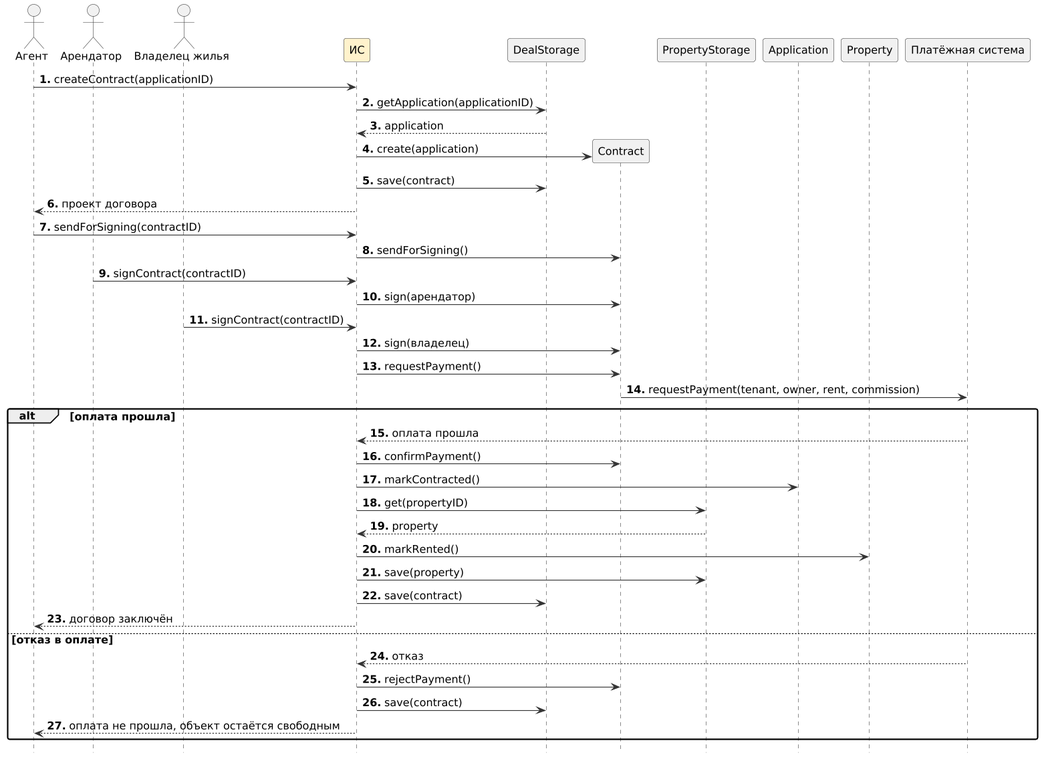
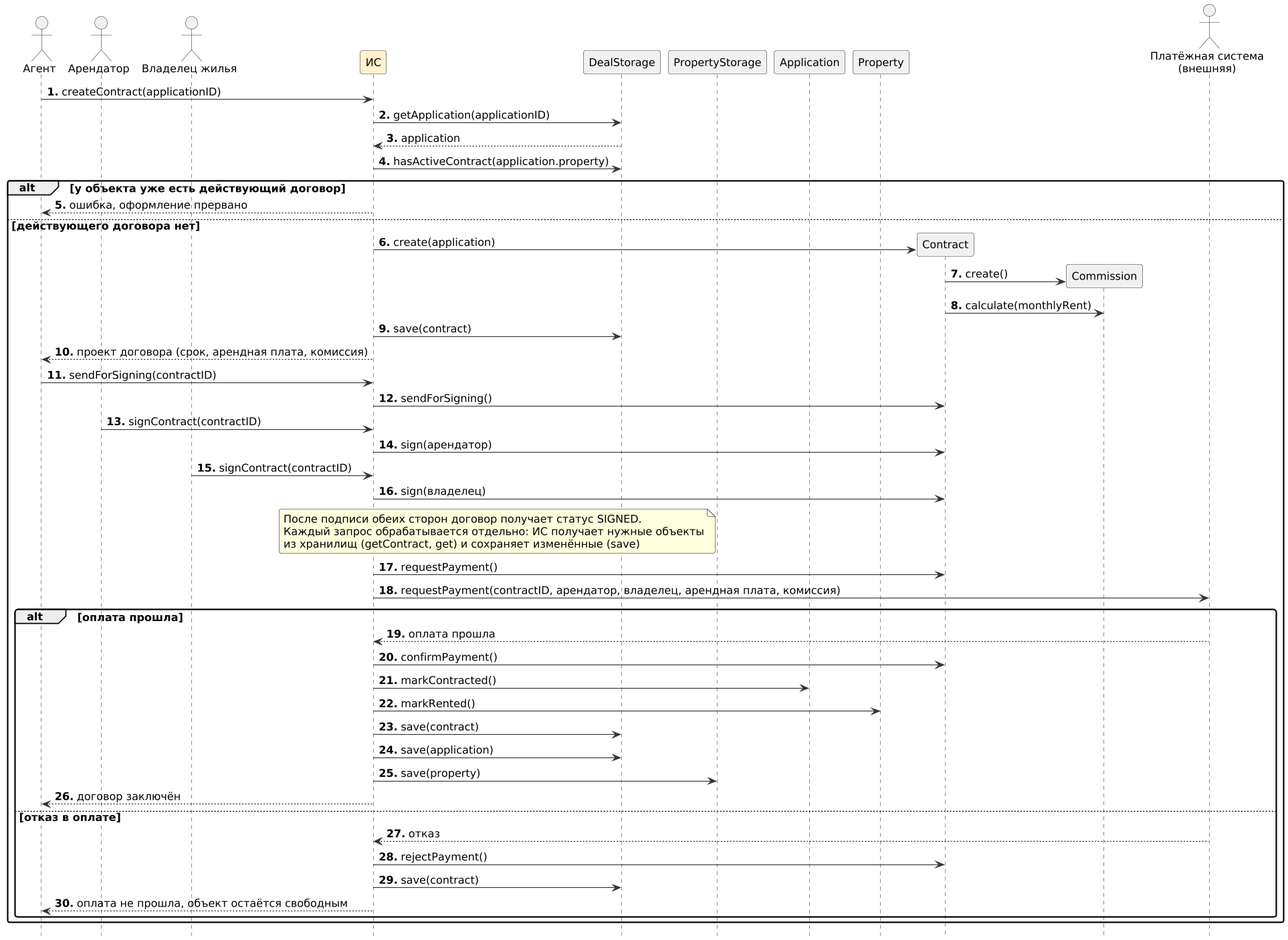
подправил диаграмму последовательности в прецеденте 3

diff --git a/Прецеденты/ПР3.ДоговорОплата.Альберт/ОсновнойСценарий.md b/Прецеденты/ПР3.ДоговорОплата.Альберт/ОсновнойСценарий.md
@@ -1,112 +1,138 @@
-Рамки. Информационная система жилищного агентства «JilliBilli». 
+Рамки. Информационная система жилищного агентства «JilliBilli».
 
-Уровень. Задача, определенная пользователем. 
+Уровень. Задача, определенная пользователем.
 
-Основной исполнитель. Агент. 
+Основной исполнитель. Агент.
 
-Заинтересованные лица и их требования. 
--	Агент. Хочет быстро и без ошибок оформить договор аренды, не допустив двойной сдачи объекта и неверного расчета комиссии.
--	Арендатор. Хочет понятные условия договора, возможность удобно оплатить аренду и комиссию и получить подтверждение оплаты.
--	Владелец жилья. Хочет сдать жилье на согласованных условиях и получить арендную плату полностью, без вычета комиссии.
--	Агентство. Хочет аккуратно зафиксировать сделку, корректно рассчитать и получить комиссию, вести учет договоров.
--	Платежная система. Хочет получать запросы на оплату в корректном формате и отвечать на эти запросы. Платеж, перевод владельцу и возврат выполняются в ней.
--	Налоговые органы. Хотят, чтобы доходы агентства от комиссии были учтены.
+Заинтересованные лица и их требования.
 
-Предусловия. Агент идентифицирован и аутентифицирован. Заявка арендатора одобрена владельцем жилья. У объекта нет действующего договора аренды. 
-	Результаты (Постусловия). 
-	Договор сформирован, подписан обеими сторонами и сохранен. 
-	Комиссия агентства корректно рассчитана и оплачена арендатором. 
-	Оплата принята платежной системой, договор получил статус оплаты «оплачен». 
-	Объект получил статус «Сдан», заявка – статус «Оформлена». 
-	Владелец получил арендную плату полностью через платежную систему. 
+- Агент. Хочет быстро и без ошибок оформить договор аренды, не допустив двойной сдачи объекта и неверного расчета комиссии.
+- Арендатор. Хочет понятные условия договора, возможность удобно оплатить аренду и комиссию и получить подтверждение оплаты.
+- Владелец жилья. Хочет сдать жилье на согласованных условиях и получить арендную плату полностью, без вычета комиссии.
+- Агентство. Хочет аккуратно зафиксировать сделку, корректно рассчитать и получить комиссию, вести учет договоров.
+- Платежная система. Хочет получать запросы на оплату в корректном формате и отвечать на эти запросы. Платеж, перевод владельцу и возврат выполняются в ней.
+- Налоговые органы. Хотят, чтобы доходы агентства от комиссии были учтены.
+
+Предусловия. Агент идентифицирован и аутентифицирован. Арендатор и владелец жилья согласовали условия аренды, заявка арендатора одобрена владельцем (статус «Одобрена»). Объект имеет статус «Доступен», у объекта нет действующего договора аренды. Результаты (Постусловия). Договор сформирован, подписан обеими сторонами и сохранен. Комиссия агентства корректно рассчитана и оплачена арендатором вместе с первым платежом. Оплата принята платежной системой, договор получил статус оплаты «оплачен». Объект получил статус «Сдан», заявка – статус «Оформлена». Владелец получил арендную плату полностью через платежную систему.
 
 Основной успешный сценарий:
-1.	Арендатор и владелец жилья согласовали условия аренды, заявка арендатора одобрена владельцем.
-2.	Агент открывает одобренную заявку и запускает оформление договора.
-3.	Система формирует проект договора на основе условий объекта и заявки, рассчитывает комиссию агентства на основе набора бизнес-правил и выдает агенту проект договора, срок аренды, размер ежемесячной арендной платы и комиссии.
-4.	Агент проверяет проект договора и отправляет его на подпись арендатору и владельцу.
-5.	Арендатор и владелец подписывают договор.
-6.	Система фиксирует подписание договора и отправляет в платежную систему запрос на оплату: арендная плата и комиссия оплачиваются арендатором.
-7.	Платежная система проводит оплату, арендатор подтверждает платеж, платежная система переводит арендную плату владельцу, а комиссию агентству и сообщает системе об успешной оплате.
-8.	Система фиксирует оплату, переводит объект в статус «Сдан», а заявку – в статус «Оформлена».
-9.	Агент получает сообщение, что договор заключен.
 
-Расширения (или альтернативные потоки) 
+1. Агент открывает одобренную заявку и запускает оформление договора.
+2. Система проверяет, что у объекта нет действующего договора, формирует проект договора на основе условий объекта и заявки, рассчитывает комиссию агентства на основе набора бизнес-правил и выдает агенту проект договора, срок аренды, размер ежемесячной арендной платы и комиссии.
+3. Агент проверяет проект договора и отправляет его на подпись арендатору и владельцу.
+4. Арендатор и владелец подписывают договор.
+5. Система фиксирует подписание договора и отправляет в платежную систему запрос на оплату первого платежа: арендная плата за первый месяц и комиссия оплачиваются арендатором.
+6. Платежная система проводит оплату (арендатор подтверждает платеж на ее стороне), переводит арендную плату владельцу, а комиссию агентству и сообщает системе об успешной оплате.
+7. Система фиксирует оплату (статус оплаты договора «оплачен»), переводит объект в статус «Сдан», а заявку – в статус «Оформлена».
+8. Агент получает сообщение, что договор заключен.
+
+Расширения (или альтернативные потоки)
 
 *а. При каждом выходе системы из строя.
 
-    Для корректной обработки договора и платежа нужно обеспечить восстановление всех транзакций и событий с любого шага сценария. 
-    1.	Агент перезапускает систему, регистрируется и предлагает восстановить предыдущее состояние.
-    2.	Система восстанавливает предыдущее состояние.
-        2а. Система определяет аномалию, повлекшую сбой.
-            1.	Система уведомляет об ошибке агента, регистрирует ошибку и переходит в начальное состояние.
-            2.	Агент начинает оформление договора заново.
+```
+Для корректной обработки договора и платежа нужно обеспечить восстановление всех транзакций и событий с любого шага сценария. 
+1.	Агент перезапускает систему, регистрируется и предлагает восстановить предыдущее состояние.
+2.	Система восстанавливает предыдущее состояние.
+    2а. Система определяет аномалию, повлекшую сбой.
+        1.	Система уведомляет об ошибке агента, регистрирует ошибку и переходит в начальное состояние.
+        2.	Агент начинает оформление договора заново.
+```
 
 *б. Агент отменяет оформление договора на любом шаге до оплаты.
 
-    1.	Система отменяет черновик договора, заявка остается в статусе «Одобрена».
+```
+1.	Система отменяет черновик договора (договор аннулируется), заявка остается в статусе «Одобрена».
+```
 
 2а. У объекта уже есть действующий договор аренды.
 
-    1.	Система сообщает об ошибке и прерывает оформление.
+```
+1.	Система сообщает об ошибке и прерывает оформление.
+```
 
 2б. Объект снят владельцем с предложения.
 
-    1.	Система сообщает об ошибке и закрывает заявку.
+```
+1.	Система сообщает об ошибке и закрывает заявку.
+```
 
-3а. В данных объекта или заявки не хватает сведений, необходимых для договора.
+2в. В данных объекта или заявки не хватает сведений, необходимых для договора.
 
-    1.	Система сообщает агенту, какие данные не заполнены.
-    2.	Агент вводит недостающие данные вручную либо возвращает заявку на уточнение.
+```
+1.	Система сообщает агенту, какие данные не заполнены.
+2.	Агент вводит недостающие данные вручную либо отменяет оформление (переход к *б).
+```
 
-3б. Размер комиссии по согласованию с руководством агентства отличается от стандартного.
+2г. Размер комиссии по согласованию с руководством агентства отличается от стандартного.
 
-    1.	Агент изменяет ставку комиссии для данной сделки.
-    2.	Система вычисляет новую комиссию.
+```
+1.	Агент изменяет ставку комиссии для данной сделки.
+2.	Система вычисляет новую комиссию.
+```
 
-4а. Арендатор или владелец просит изменить условия договора.
+3а. Арендатор или владелец просит изменить условия договора.
 
-    1.	Агент вносит изменения в проект договора.
-    2.	Система пересчитывает комиссию и формирует новый проект.
-    3.	Агент повторно отправляет договор на подпись (переход к шагу 4).
+```
+1.	Агент вносит изменения в проект договора.
+2.	Система пересчитывает комиссию и формирует новый проект.
+3.	Агент повторно отправляет договор на подпись (переход к шагу 3).
+```
 
-5а. Одна из сторон отказывается подписывать договор.
+4а. Одна из сторон отказывается подписывать договор.
 
-    1.	Агент отменяет оформление.
-    2.	Система отменяет черновик договора, заявка остается в статусе «Одобрена».
+```
+1.	Агент отменяет оформление.
+2.	Система отменяет черновик договора, заявка остается в статусе «Одобрена».
+```
 
-5б. Истек срок ожидания подписи.
+4б. Истек срок ожидания подписи.
 
-    1.	Система отменяет черновик договора.
+```
+1.	Система отменяет черновик договора, заявка остается в статусе «Одобрена».
+```
 
-7а. Платежная система сообщает об отказе (недостаточно средств, карта заблокирована) или сбое.
+6а. Платежная система сообщает об отказе (недостаточно средств, карта заблокирована) или сбое.
 
-    1.	Система фиксирует, что оплата не прошла, договор остается неоплаченным, объект остается свободным.
-    2.	Система сообщает агенту об отказе в оплате.
-    3.	Агент связывается с арендатором, оплата выполняется повторно (переход к шагу 6).
+```
+1.	Система фиксирует, что оплата не прошла: договор остается неоплаченным, заявка не получает статус «Оформлена», объект остается несданным.
+2.	Система сообщает агенту об отказе в оплате.
+3.	Агент связывается с арендатором, оплата выполняется повторно (переход к шагу 5).
+```
 
-7б. Превышен интервал ожидания ответа платежной системы.
+6б. Превышен интервал ожидания ответа платежной системы.
 
-    1.	Система сообщает агенту, что результат оплаты неизвестен.
-    2.	Агент повторно запрашивает статус оплаты, после ответа платежной системы сценарий продолжается с шага 7 или 7а.
+```
+1.	Система сообщает агенту, что результат оплаты неизвестен.
+2.	Агент повторно запрашивает статус оплаты, после ответа платежной системы сценарий продолжается с шага 6 или 6а.
+```
 
-7в. Арендатор отказывается от оплаты в течение срока действия договора.
+6в. Арендатор отказывается от оплаты до истечения срока оплаты.
 
-    1.	Агент отменяет оформление, система аннулирует договор, заявка остается в статусе «Одобрена».
+```
+1.	Агент отменяет оформление, система аннулирует договор, заявка остается в статусе «Одобрена».
+```
+
+6г. Оплата не поступила в установленный срок.
+
+```
+1.	Система аннулирует договор, заявка возвращается в статус «Одобрена».
+```
 
 Специальные требования
--	Отклик платежной системы в 90% случаев приходит в течение 30 секунд.
--	Все финансовые операции протоколируются и не подлежат удалению.
--	Робастное восстановление информации в случае сбоя при доступе к внешним сервисам (платежная система).
--	Возможность добавления новых бизнес-правил расчета комиссии на шаге 3 в процессе функционирования системы.
--	Возможность локализации (представления на различных языках) отображаемого текста.
+
+- Отклик платежной системы в 90% случаев приходит в течение 30 секунд.
+- Статус оплаты и сумма комиссии по договору хранятся в системе и не подлежат удалению; платежи, выплаты и возвраты протоколирует платежная система.
+- Робастное восстановление информации в случае сбоя при доступе к внешним сервисам (платежная система).
+- Возможность добавления новых бизнес-правил расчета комиссии на шаге 2 в процессе функционирования системы.
+- Возможность локализации (представления на различных языках) отображаемого текста.
 
 Список технологий и типов данных
 
 *б. Отмена оформления выполняется кнопкой в интерфейсе агента.
 
-5а. Подписание договора выполняется простой электронной подписью (код из SMS или e-mail).
+4а. Подписание договора выполняется простой электронной подписью (код из SMS или e-mail).
 
-7а. Оплата банковской картой выполняется на стороне платежной системы, система карточные данные не хранит.
+6а. Оплата банковской картой выполняется на стороне платежной системы, система карточные данные не хранит.
 
 Частота использования: несколько раз в день.

diff --git a/Прецеденты/ПР3.ДоговорОплата.Альберт/createContract.md b/Прецеденты/ПР3.ДоговорОплата.Альберт/createContract.md
@@ -1,21 +1,21 @@
-Описания определяются для системных операций (system operations). Системными называются операции, входящие в открытый интерфейс системы для обработки входных системных событий, которые система выполняет как черный ящик. Весь набор системных операций, выполняемых в процессе всех прецедентов, определяет открытый системный интерфейс (system interface), в ракурсе которого система рассматривается как единый компонент или класс. В UML систему в целом можно представить в виде одного класса. 
-
+Описания определяются для системных операций (system operations). Системными называются операции, входящие в открытый интерфейс системы для обработки входных системных событий, которые система выполняет как черный ящик. Весь набор системных операций, выполняемых в процессе всех прецедентов, определяет открытый системный интерфейс (system interface), в ракурсе которого система рассматривается как единый компонент или класс. В UML систему в целом можно представить в виде одного класса.
 
 Операция: createContract(applicationID: ApplicationID)
 
-Ссылки: Прецеденты: Оформление договора и оплата 
+Ссылки: Прецеденты: Оформление договора и оплата
 
-Предусловия: Агент авторизован; заявка с идентификатором applicationID одобрена владельцем (статус APPROVED); у объекта нет действующего договора
+Предусловия: Агент авторизован; заявка с идентификатором applicationID одобрена владельцем (статус APPROVED); объект, указанный в заявке, имеет статус AVAILABLE и у него нет действующего договора
 
-Постусловия: 
--	Создан экземпляр c класса Contract (создание экземпляра)
--	Экземпляр c связан с экземпляром app класса Application на основе соответствия идентификатора applicationID (формирование ассоциации)
--	Экземпляр c связан с экземпляром класса Property, указанным в заявке app (формирование ассоциации)
--	Экземпляр c связан с агентом, оформляющим договор (формирование ассоциации)
--	Атрибуту c.monthlyRent присвоено значение Property.monthlyPrice (модификация атрибута)
--	Атрибутам c.startDate и c.endDate присвоены значения из заявки app (модификация атрибута)
--	Атрибуту c.status присвоено значение DRAFT (модификация атрибута)
--	Атрибуту c.paymentStatus присвоено значение «не оплачен» (модификация атрибута)
--	Создан экземпляр cm класса Commission, значения cm.rate и cm.amount определены на основе бизнес-правил расчета комиссии (создание экземпляра, модификация атрибута)
--	Экземпляр cm связан с экземпляром c (формирование ассоциации)
--	Экземпляр c сохранен в хранилище сделок (сохранение)
+Постусловия:
+
+- Создан экземпляр c класса Contract (создание экземпляра)
+- Экземпляр c связан с экземпляром app класса Application на основе соответствия идентификатора applicationID (формирование ассоциации)
+- Экземпляр c связан с агентом, оформляющим договор (формирование ассоциации)
+- Атрибуту c.number присвоен уникальный номер договора (модификация атрибута)
+- Атрибуту c.monthlyRent присвоено значение monthlyPrice объекта Property, указанного в заявке app (модификация атрибута)
+- Атрибутам c.startDate и c.endDate присвоены значения из заявки app (модификация атрибута)
+- Атрибуту c.status присвоено значение DRAFT (модификация атрибута)
+- Атрибуту c.paymentStatus присвоено значение «не оплачен» (модификация атрибута)
+- Создан экземпляр cm класса Commission, значение cm.rate определено на основе бизнес-правил расчета комиссии, значение cm.amount рассчитано от c.monthlyRent по ставке cm.rate (создание экземпляра, модификация атрибута)
+- Экземпляр cm связан с экземпляром c (формирование ассоциации)
+- Экземпляр c вместе с cm сохранен в хранилище сделок (сохранение)

diff --git a/Прецеденты/ПР3.ДоговорОплата.Альберт/Контекст3.Код.md b/Прецеденты/ПР3.ДоговорОплата.Альберт/Контекст3.Код.md
@@ -1,4 +1,3 @@
-
 ```plantuml
 @startuml
 skinparam defaultFontName DejaVu Sans
@@ -27,43 +26,52 @@ actor "Арендатор" as T
 actor "Владелец жилья" as O
 participant "ИС" as IS <<IS>>
 participant "DealStorage" as DS
-participant "Contract" as C
 participant "PropertyStorage" as PS
 participant "Application" as AP
 participant "Property" as P
-participant "Платёжная система" as PAY
+participant "Contract" as C
+participant "Commission" as CM
+actor "Платёжная система\n(внешняя)" as PAY
 
 A -> IS : createContract(applicationID)
 IS -> DS : getApplication(applicationID)
 DS --> IS : application
-IS -> C ** : create(application)
-IS -> DS : save(contract)
-IS --> A : проект договора
-
-A -> IS : sendForSigning(contractID)
-IS -> C : sendForSigning()
-T -> IS : signContract(contractID)
-IS -> C : sign(арендатор)
-O -> IS : signContract(contractID)
-IS -> C : sign(владелец)
-
-IS -> C : requestPayment()
-C -> PAY : requestPayment(tenant, owner, rent, commission)
-alt оплата прошла
-  PAY --> IS : оплата прошла
-  IS -> C : confirmPayment()
-  IS -> AP : markContracted()
-  IS -> PS : get(propertyID)
-  PS --> IS : property
-  IS -> P : markRented()
-  IS -> PS : save(property)
+IS -> DS : hasActiveContract(application.property)
+alt у объекта уже есть действующий договор
+  IS --> A : ошибка, оформление прервано
+else действующего договора нет
+  IS -> C ** : create(application)
+  C -> CM ** : create()
+  C -> CM : calculate(monthlyRent)
   IS -> DS : save(contract)
-  IS --> A : договор заключён
-else отказ в оплате
-  PAY --> IS : отказ
-  IS -> C : rejectPayment()
-  IS -> DS : save(contract)
-  IS --> A : оплата не прошла, объект остаётся свободным
+  IS --> A : проект договора (срок, арендная плата, комиссия)
+
+  A -> IS : sendForSigning(contractID)
+  IS -> C : sendForSigning()
+  T -> IS : signContract(contractID)
+  IS -> C : sign(арендатор)
+  O -> IS : signContract(contractID)
+  IS -> C : sign(владелец)
+  note over IS, DS : После подписи обеих сторон договор получает статус SIGNED.\nКаждый запрос обрабатывается отдельно: ИС получает нужные объекты\nиз хранилищ (getContract, get) и сохраняет изменённые (save)
+
+  IS -> C : requestPayment()
+  IS -> PAY : requestPayment(contractID, арендатор, владелец, арендная плата, комиссия)
+
+  alt оплата прошла
+    PAY --> IS : оплата прошла
+    IS -> C : confirmPayment()
+    IS -> AP : markContracted()
+    IS -> P : markRented()
+    IS -> DS : save(contract)
+    IS -> DS : save(application)
+    IS -> PS : save(property)
+    IS --> A : договор заключён
+  else отказ в оплате
+    PAY --> IS : отказ
+    IS -> C : rejectPayment()
+    IS -> DS : save(contract)
+    IS --> A : оплата не прошла, объект остаётся свободным
+  end
 end
 @enduml
 ```
